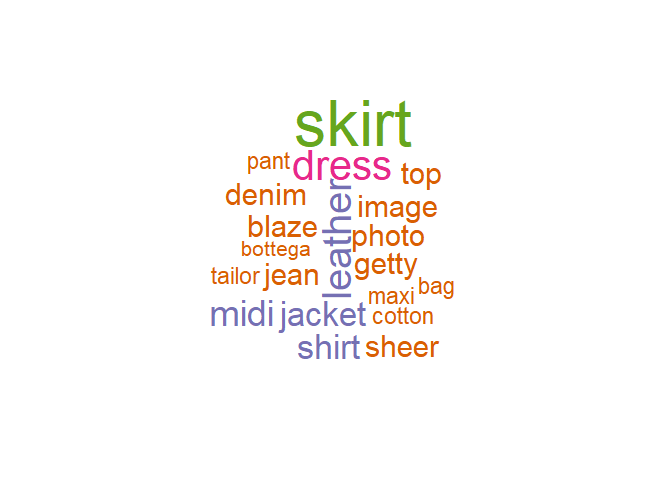
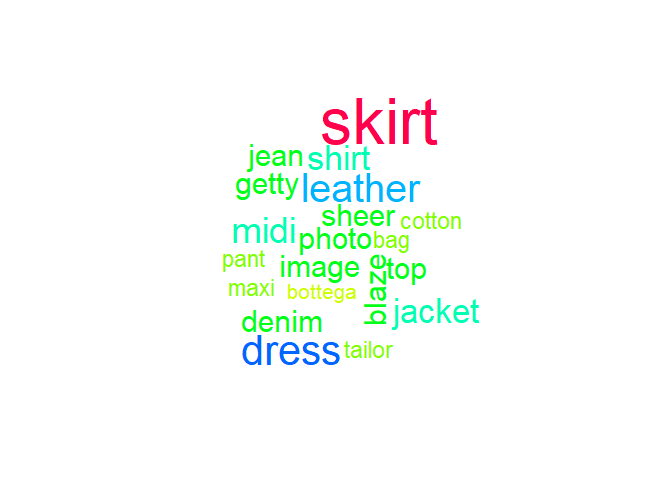
edit

Changed region(s): [[0.3125, 0.1875, 0.7188, 0.7812]]

diff --git a/Top_Fashion_Trends_2023.md b/Top_Fashion_Trends_2023.md
@@ -299,7 +299,7 @@ article:
 
     library(RColorBrewer)
 
-    wordcloud(names(top_20_words), top_20_words, colors = brewer.pal(5, "Dark2"))
+    wordcloud(names(top_20_words), top_20_words, colors = rainbow(length(top_20_words)))
 
 ![](Top_Fashion_Trends_2023_files/figure-markdown_strict/unnamed-chunk-16-1.png)
 
